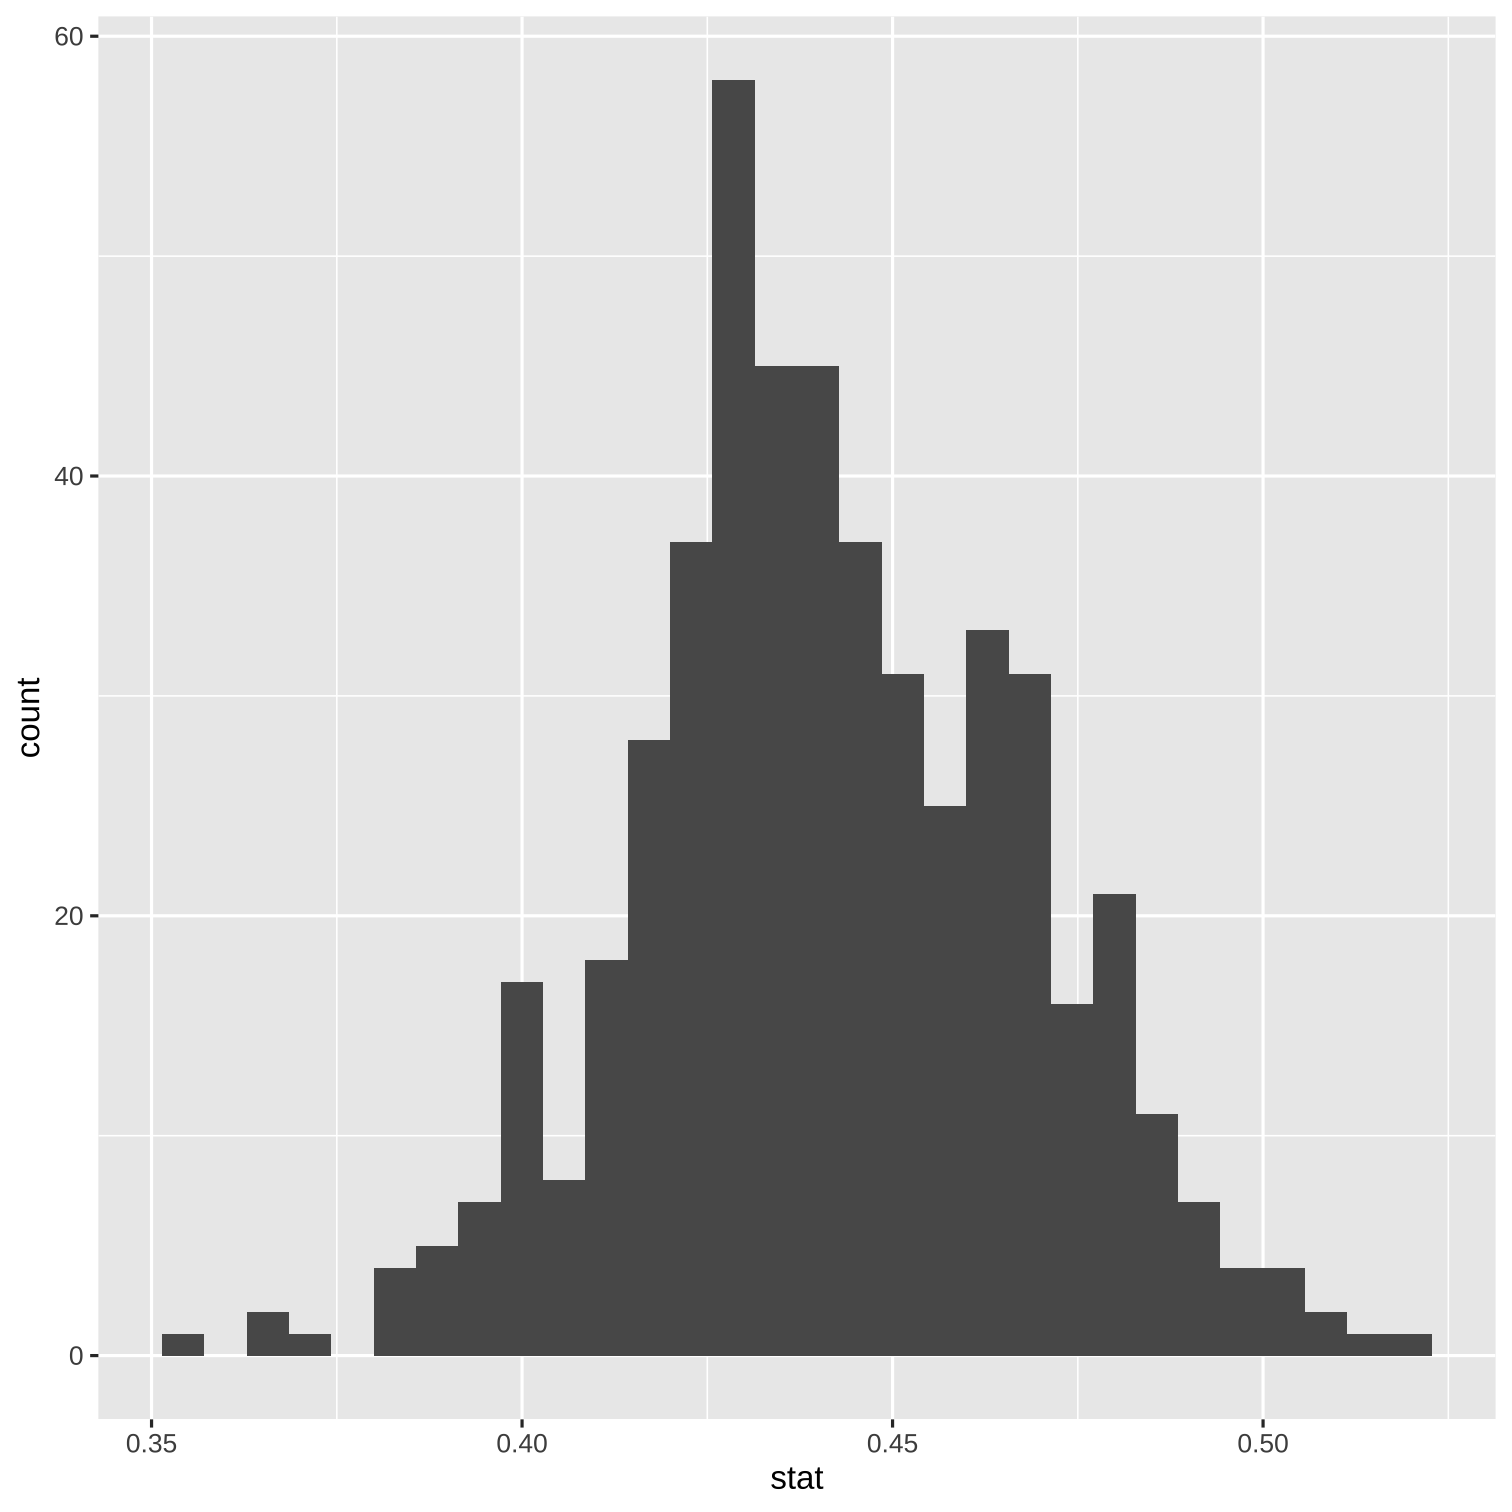
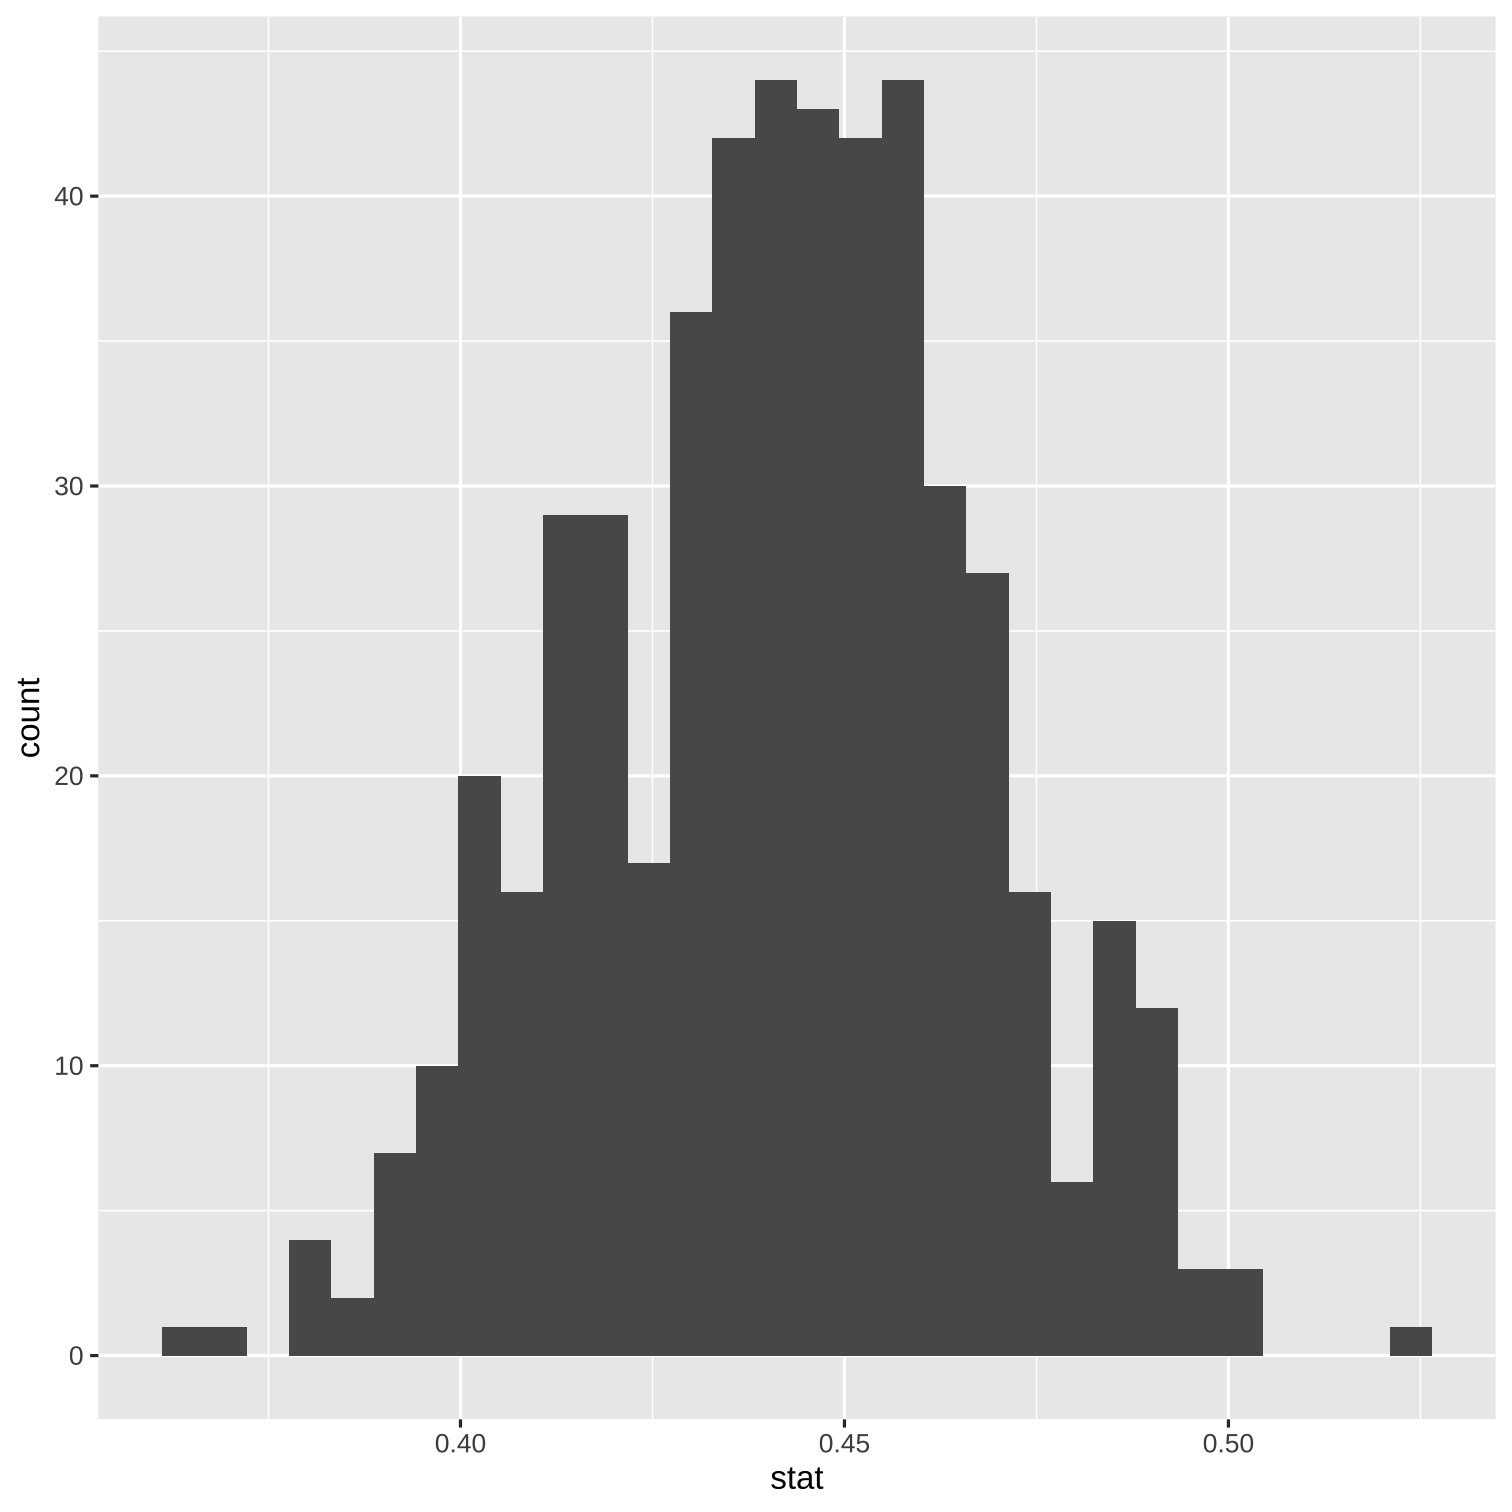
change prints of slide

diff --git a/labs/06/slides-2.html b/labs/06/slides-2.html
@@ -148,6 +148,14 @@ penguins %&gt;%
 ```r
 obs_stat &lt;- penguins %&gt;%
   summarize(p_adelie = mean(is_adelie))
+obs_stat
+```
+
+```
+## # A tibble: 1 × 1
+##   p_adelie
+##      &lt;dbl&gt;
+## 1    0.442
 ```
 
 ---
@@ -174,15 +182,15 @@ penguins %&gt;%
 ##    replicate is_adelie
 ##        &lt;int&gt; &lt;fct&gt;    
 ##  1         1 FALSE    
-##  2         1 FALSE    
+##  2         1 TRUE     
 ##  3         1 FALSE    
-##  4         1 FALSE    
+##  4         1 TRUE     
 ##  5         1 FALSE    
 ##  6         1 TRUE     
 ##  7         1 FALSE    
-##  8         1 FALSE    
-##  9         1 TRUE     
-## 10         1 FALSE    
+##  8         1 TRUE     
+##  9         1 FALSE    
+## 10         1 TRUE     
 ## # … with 334 more rows
 ```
 
@@ -212,9 +220,9 @@ penguins %&gt;%
 ##  4         1 TRUE     
 ##  5         1 FALSE    
 ##  6         1 TRUE     
-##  7         1 TRUE     
-##  8         1 FALSE    
-##  9         1 TRUE     
+##  7         1 FALSE    
+##  8         1 TRUE     
+##  9         1 FALSE    
 ## 10         1 FALSE    
 ## # … with 334 more rows
 ```
@@ -240,14 +248,14 @@ penguins %&gt;%
 ##        &lt;int&gt; &lt;fct&gt;    
 ##  1         1 TRUE     
 ##  2         1 FALSE    
-##  3         1 FALSE    
+##  3         1 TRUE     
 ##  4         1 TRUE     
 ##  5         1 FALSE    
 ##  6         1 TRUE     
 ##  7         1 FALSE    
-##  8         1 FALSE    
-##  9         1 TRUE     
-## 10         1 FALSE    
+##  8         1 TRUE     
+##  9         1 FALSE    
+## 10         1 TRUE     
 ## # … with 334 more rows
 ```
 ]
@@ -299,15 +307,15 @@ penguins %&gt;%
 ## # A tibble: 9 × 2
 ##   replicate  stat
 ##       &lt;int&gt; &lt;dbl&gt;
-## 1         1 0.427
-## 2         2 0.433
-## 3         3 0.422
-## 4         4 0.392
+## 1         1 0.456
+## 2         2 0.465
+## 3         3 0.416
+## 4         4 0.483
 ## 5         5 0.445
-## 6         6 0.451
-## 7         7 0.468
-## 8         8 0.459
-## 9         9 0.462
+## 6         6 0.456
+## 7         7 0.442
+## 8         8 0.419
+## 9         9 0.442
 ```
 
 --
@@ -363,7 +371,7 @@ penguins %&gt;%
 ## # A tibble: 1 × 2
 ##   lower_ci upper_ci
 ##      &lt;dbl&gt;    &lt;dbl&gt;
-## 1    0.387    0.491
+## 1    0.391    0.491
 ```
 
 
